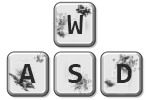
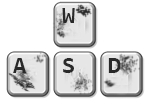
Added continue button

diff --git a/RoseWaterRickey/js/howToPlay.js b/RoseWaterRickey/js/howToPlay.js
@@ -7,7 +7,8 @@ Game.HowToPlay.prototype = (function () {
         currentLayer,
         jumpingButton,
         asteroidButton,
-        logicButton;
+        logicButton,
+        controlsText;
     
     function intializeGroups () {
         initializeJumpingLevel();
@@ -71,12 +72,17 @@ Game.HowToPlay.prototype = (function () {
             this.game.load.image('jumping', 'imgs/howToPlay/jumpLevel.png');
             this.game.load.image('asteroid', 'imgs/howToPlay/asteroidLevel.png');
             this.game.load.image('logic', 'imgs/howToPlay/logicLevel.png');
-            this.game.load.image('arrows', 'imgs/howToPlay/arrowKeys.png')
+            this.game.load.image('arrows', 'imgs/howToPlay/arrowKeys.png');
+            this.game.load.image('wasd', 'imgs/howToPlay/wasdKeys.png');
+            this.game.load.image('heroes', 'imgs/howToPlay/heroes.png');
         },
         create: function () {
             this.game.add.button(370, 480, 'menu', this.returnToMenu, this.game);
-            //location for wasd image 400(or 450), 200
-            this.game.add.sprite(550, 200, 'arrows');
+            this.game.add.sprite(450, 100, 'heroes');
+            this.game.add.sprite(600, 200, 'arrows');
+            this.game.add.sprite(400, 200, 'wasd');
+            
+
 
             intializeGroups();
             
